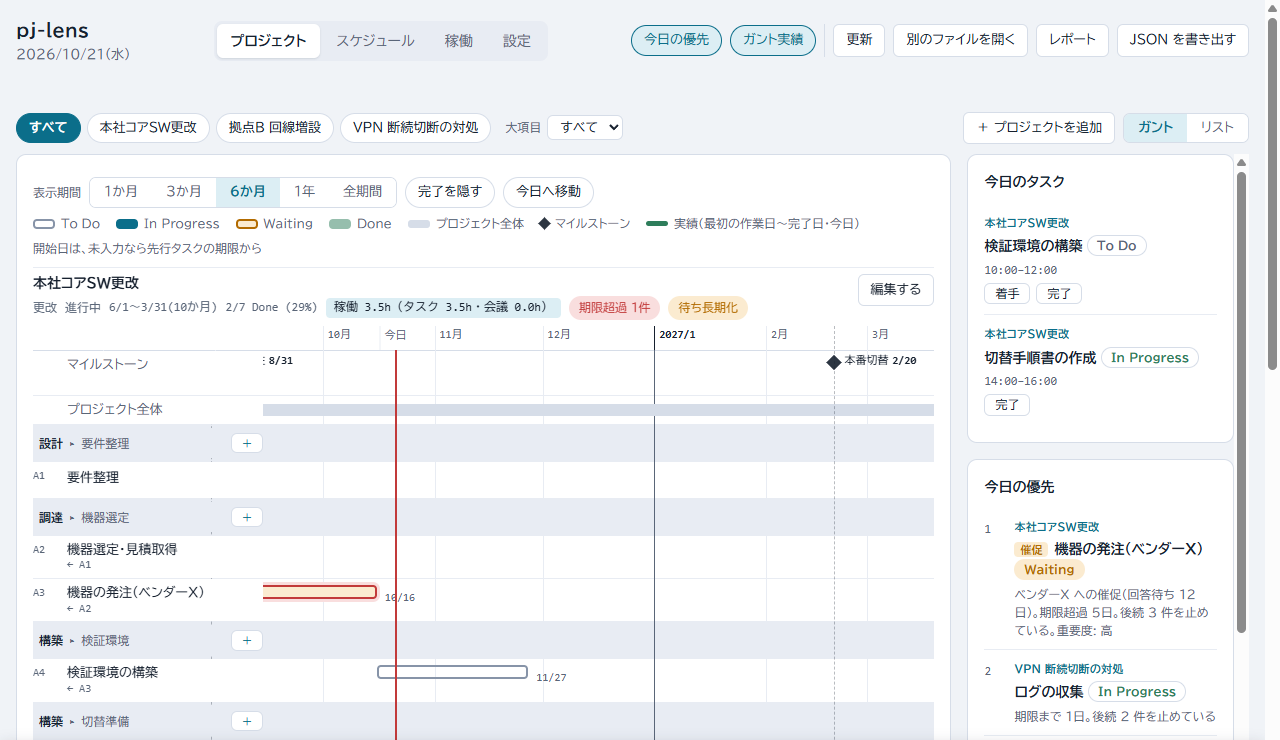
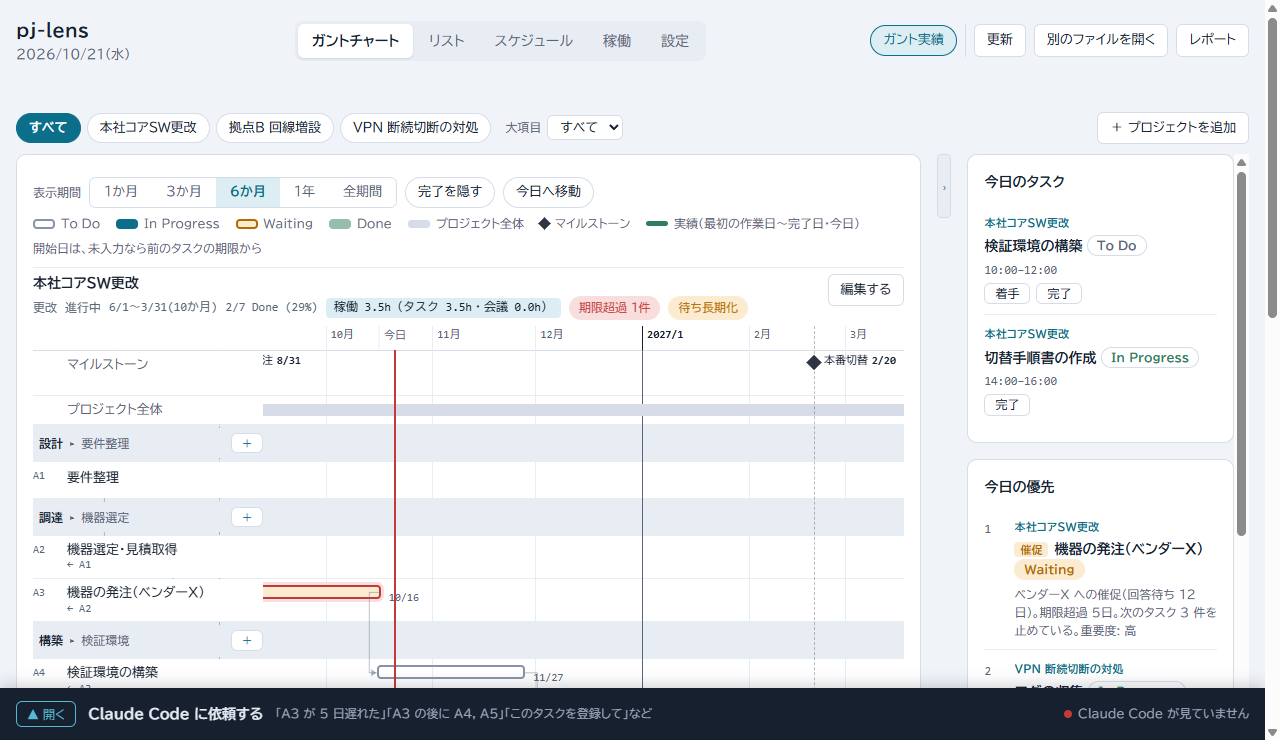
docs: README の画像を新しい画面（タブ・取っ手）に差し替え、右の列を開け閉めしたらガントの横スクロールを戻す
Claude-Session: https://claude.ai/code/session_014TMN2j2oceeNnth2x8d2HW

diff --git a/plugins/pj-lens/assets/pj-lens.html b/plugins/pj-lens/assets/pj-lens.html
@@ -4498,6 +4498,7 @@ function deleteSelected() {
 /** 表示の好み（今日の優先・ガント実績）を反転して保存する。今日の優先を閉じると、パネル内にしか出ない確認待ちは出す場所がなくなるので捨てる */
 function togglePref(key) {
   S.pendingDone = null;
+  if (key === "showPrio") S.resetScroll = true; // 右の列の開け閉めでガントの幅が変わるので、横スクロールを今日の位置へ戻す
   S.prefs = { ...S.prefs, [key]: !S.prefs[key] };
   savePrefs(S.prefs);
   render();

diff --git a/plugins/pj-lens/src/ui/app.js b/plugins/pj-lens/src/ui/app.js
@@ -368,6 +368,7 @@ function deleteSelected() {
 /** 表示の好み（今日の優先・ガント実績）を反転して保存する。今日の優先を閉じると、パネル内にしか出ない確認待ちは出す場所がなくなるので捨てる */
 function togglePref(key) {
   S.pendingDone = null;
+  if (key === "showPrio") S.resetScroll = true; // 右の列の開け閉めでガントの幅が変わるので、横スクロールを今日の位置へ戻す
   S.prefs = { ...S.prefs, [key]: !S.prefs[key] };
   savePrefs(S.prefs);
   render();

diff --git a/tests/app-source.test.js b/tests/app-source.test.js
@@ -248,3 +248,8 @@ test("画面の文言: 「プロジェクト」タブはないので、稼働・
   assert.doesNotMatch(wl, /プロジェクト画面から/);
   assert.doesNotMatch(gt, /リスト表示で追加/);
 });
+
+test("app.js: 右の列を開け閉めすると、ガントの幅が変わるので、横スクロールを今日の位置へ戻す（resetScroll）", () => {
+  const f = src.slice(src.indexOf("function togglePref"), src.indexOf("function togglePref") + 500);
+  assert.match(f, /key === "showPrio"[^\n]*S\.resetScroll = true/);
+});
